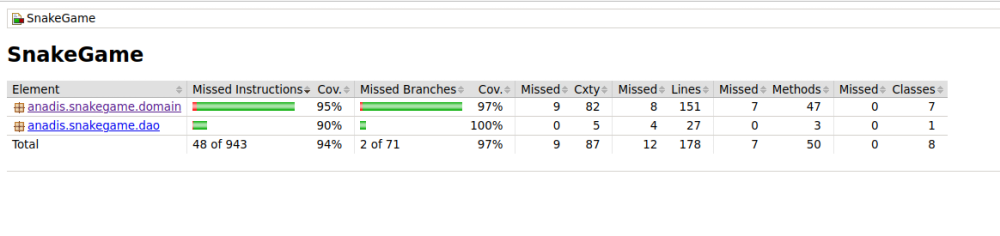
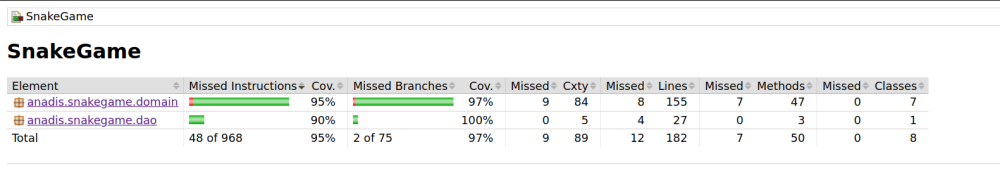
adding input checking to score service class

diff --git a/SnakeGame/src/test/java/anadis/snakegame/domain/ScoreServiceTest.java b/SnakeGame/src/test/java/anadis/snakegame/domain/ScoreServiceTest.java
@@ -7,6 +7,7 @@ package anadis.snakegame.domain;
 
 import anadis.snakegame.dao.FileScoreDao;
 import anadis.snakegame.dao.ScoreDao;
+import java.time.LocalDateTime;
 import java.util.ArrayList;
 import org.junit.After;
 import static org.junit.Assert.assertEquals;
@@ -43,7 +44,7 @@ public class ScoreServiceTest {
         when(dao.getAll()).thenReturn(new ArrayList<>());
         scoreService.addScore("bob", 12, 1);
         verify(dao, times(1)).getAll();
-        verify(dao).add(anyObject());
+        verify(dao).add(eq("bob"), eq(12), eq(1), anyObject());
     }
 
     @Test
@@ -54,7 +55,7 @@ public class ScoreServiceTest {
         }
         when(dao.getAll()).thenReturn(scorelist);
         scoreService.addScore("bob", 1, 1);
-        verify(dao, times(0)).add(anyObject());
+        verify(dao, times(0)).add(anyString(), anyInt(), anyInt(), anyObject());
     }
 
     @Test
@@ -85,5 +86,17 @@ public class ScoreServiceTest {
         when(dao.getAll()).thenReturn(scorelist);
         assertEquals(1, scoreService.generateRank(13, 1));
         assertEquals(2, scoreService.generateRank(12, 1));
+    }
+    
+    @Test
+    public void inputtingEmptyNameSavesPlayerAsAnonymous() {
+        scoreService.addScore("", 1, 1);
+        verify(dao).add(eq("Anonymous"), anyInt(), anyInt(), anyObject());
+    }
+    
+    @Test
+    public void tooLongNicknameIsShortened() {
+        scoreService.addScore("asdfghjklpoiuytrnmvbdkfjghtud", 1, 3);
+        verify(dao).add(eq("asdfghjklpoiuytrnmvb..."), anyInt(), anyInt(), anyObject());
     }
 }

diff --git a/SnakeGame/src/test/java/anadis/snakegame/dao/FileScoreDaoTest.java b/SnakeGame/src/test/java/anadis/snakegame/dao/FileScoreDaoTest.java
@@ -5,7 +5,6 @@
  */
 package anadis.snakegame.dao;
 
-import anadis.snakegame.domain.Score;
 import org.junit.Before;
 import org.junit.Test;
 import static org.junit.Assert.*;
@@ -49,21 +48,21 @@ public class FileScoreDaoTest {
 
     @Test
     public void highestScoreComesFirst() {
-        scoreDao.add(new Score("alice", 13, 1, java.time.LocalDateTime.now()));
+        scoreDao.add("alice", 13, 1, java.time.LocalDateTime.now());
         assertEquals("alice", scoreDao.getAll().get(0).getName());
         assertEquals(13, scoreDao.getAll().get(0).getScore());
     }
 
     @Test
     public void lowestLevelComesFirst() {
-        scoreDao.add(new Score("bob", 22, 2, java.time.LocalDateTime.now()));
+        scoreDao.add("bob", 22, 2, java.time.LocalDateTime.now());
         assertEquals(1, scoreDao.getAll().get(0).getLevel());
         assertEquals(22, scoreDao.getAll().get(1).getScore());
     }
 
     @Test
     public void scoresAreSortedByTimestamp() {
-        scoreDao.add(new Score("alice", 12, 1, java.time.LocalDateTime.now()));
+        scoreDao.add("alice", 12, 1, java.time.LocalDateTime.now());
         assertEquals("alice", scoreDao.getAll().get(1).getName());
         assertEquals("bob", scoreDao.getAll().get(0).getName());
     }

diff --git a/SnakeGame/src/main/java/anadis/snakegame/domain/ScoreService.java b/SnakeGame/src/main/java/anadis/snakegame/domain/ScoreService.java
@@ -6,6 +6,7 @@
 package anadis.snakegame.domain;
 
 import anadis.snakegame.dao.ScoreDao;
+import java.time.LocalDateTime;
 import java.util.ArrayList;
 import java.util.List;
 import java.util.stream.Collectors;
@@ -39,8 +40,15 @@ public class ScoreService {
      */
     public void addScore(String name, int score, int level) {
         if (generateRank(score, level) <= 20) {
-            Score newScore = new Score(name, score, level, java.time.LocalDateTime.now());
-            dao.add(newScore);
+            if (name.equals("")) {
+                name = "Anonymous";
+            }
+            if (name.length() > 20) {
+                name = name.substring(0, 20) + "...";
+            }
+            LocalDateTime timestamp = java.time.LocalDateTime.now();
+
+            dao.add(name, score, level, timestamp);
         }
     }
 

diff --git a/SnakeGame/src/main/java/anadis/snakegame/dao/FileScoreDao.java b/SnakeGame/src/main/java/anadis/snakegame/dao/FileScoreDao.java
@@ -58,11 +58,15 @@ public class FileScoreDao implements ScoreDao {
 
     /**
      *
-     * @param newScore score to write to memory
+     * @param name
+     * @param points
+     * @param level
+     * @param timestamp
      */
     @Override
-    public void add(Score newScore) {
-        scores.add(newScore);
+    public void add(String name, int points, int level, LocalDateTime timestamp) {
+        
+        scores.add(new Score(name, points, level, timestamp));
         Collections.sort(scores);
 
         try {

diff --git a/SnakeGame/src/main/java/anadis/snakegame/dao/ScoreDao.java b/SnakeGame/src/main/java/anadis/snakegame/dao/ScoreDao.java
@@ -6,6 +6,7 @@
 package anadis.snakegame.dao;
 
 import anadis.snakegame.domain.Score;
+import java.time.LocalDateTime;
 import java.util.List;
 
 /**
@@ -14,5 +15,5 @@ import java.util.List;
  */
 public interface ScoreDao {
     List<Score> getAll();
-    void add(Score score);
+    void add(String name, int points, int level, LocalDateTime timestamp);
 }
